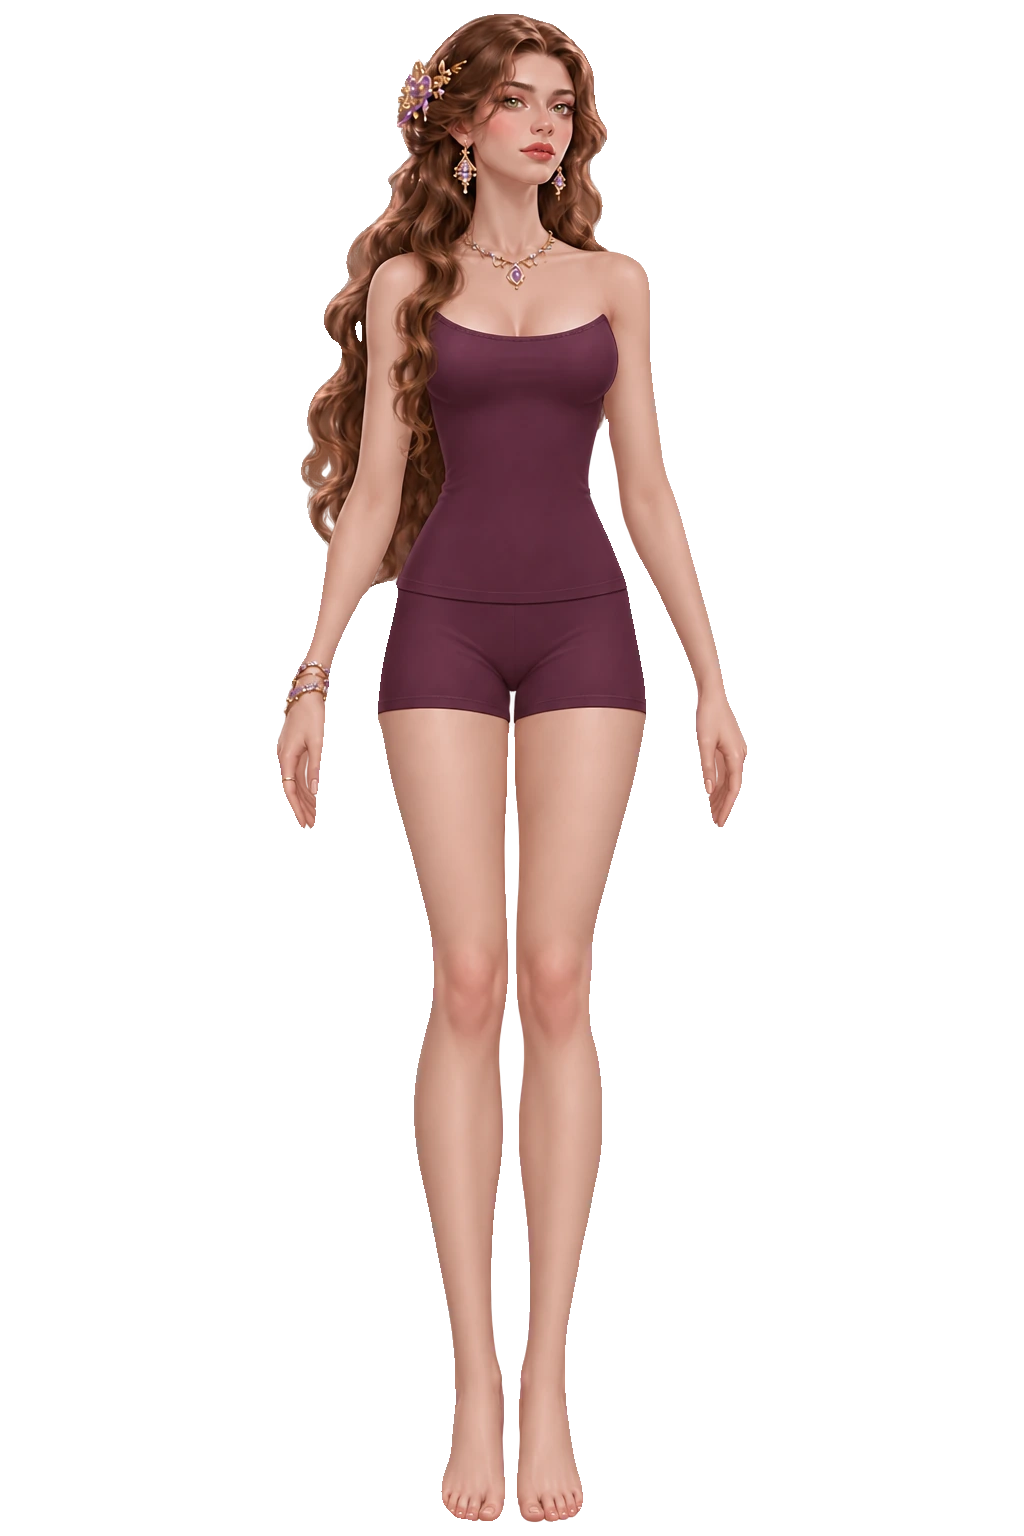
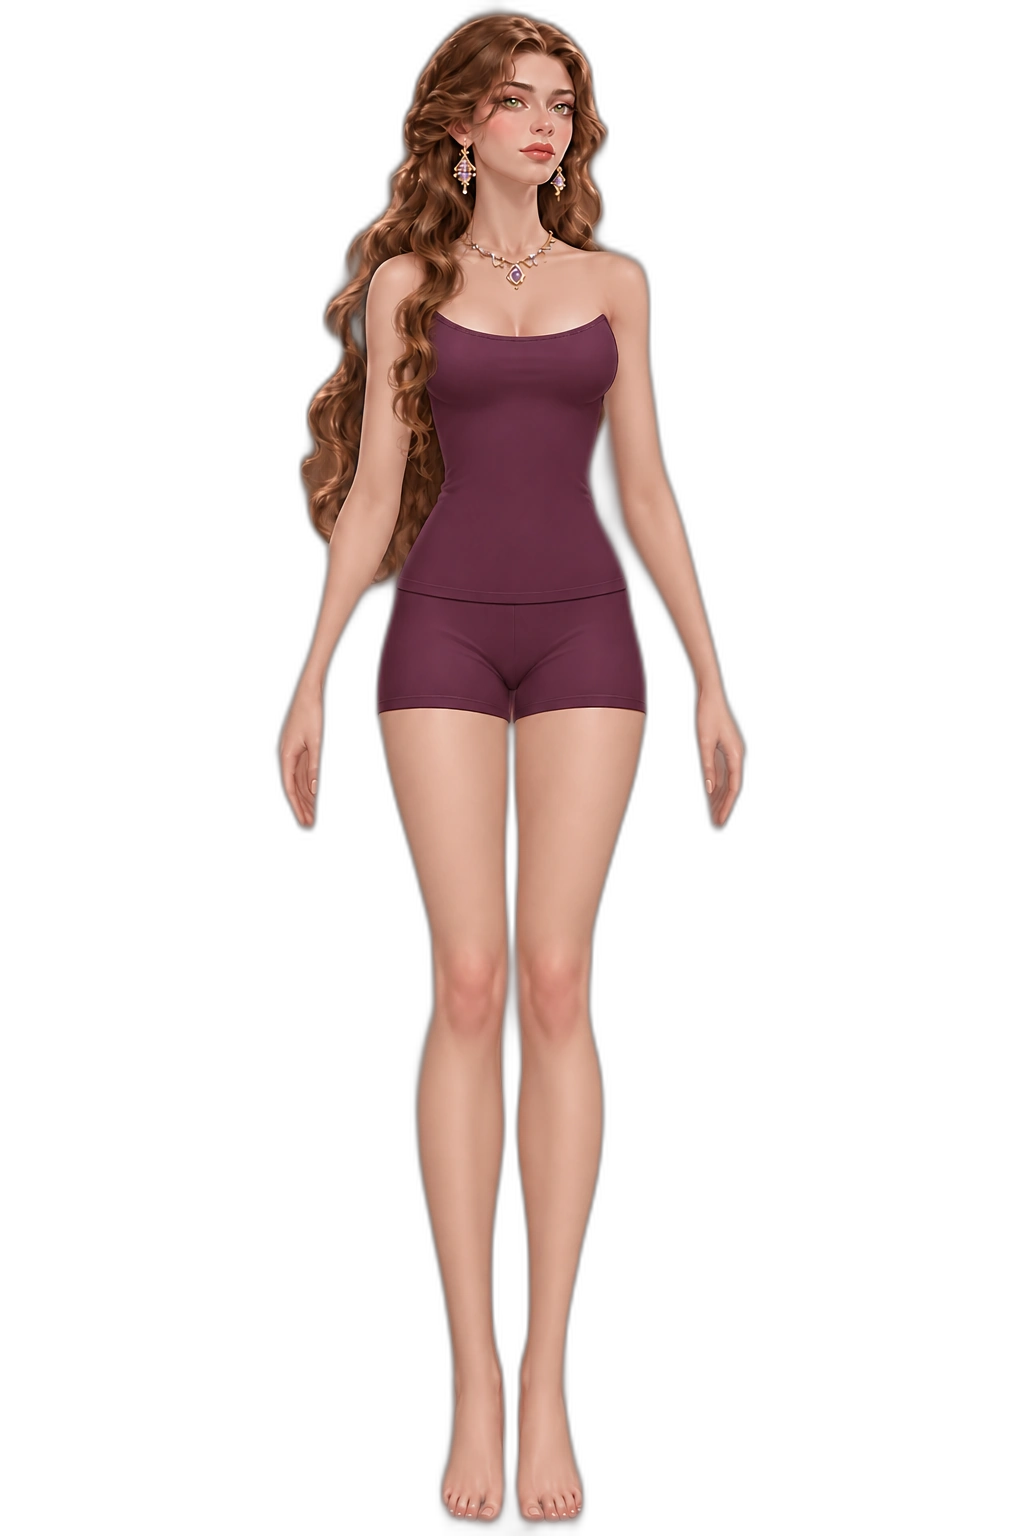
Keep only earrings and necklace on heroine

diff --git a/index.html b/index.html
@@ -27,7 +27,7 @@
           <img class="garment" data-garment="crimson" src="assets/wardrobe/dress-crimson.webp" alt="">
           <img class="garment" data-garment="starlit" src="assets/wardrobe/dress-starlit.webp" alt="">
           <img class="garment" data-garment="orchid" src="assets/wardrobe/dress-orchid.webp" alt="">
-          <img class="arm-jewelry" data-accessory="starlit" src="assets/wardrobe/arm-jewelry.webp" alt="">
+
         </div>
         <div class="wardrobe-categories" aria-label="Категория одежды">
           <button class="category-button is-current" type="button" aria-pressed="true">

diff --git a/app.js b/app.js
@@ -43,7 +43,6 @@ outfitOptions.forEach((option) => {
       candidate.setAttribute("aria-pressed", String(selected));
     });
     garments.forEach((garment) => garment.classList.toggle("is-visible", garment.dataset.garment === pendingOutfit));
-    document.querySelector(".arm-jewelry").classList.toggle("is-visible", pendingOutfit === "starlit");
     outfitName.textContent = outfits[pendingOutfit].name;
     outfitBonus.textContent = outfits[pendingOutfit].bonus;
     wearButton.textContent = "Надеть";
